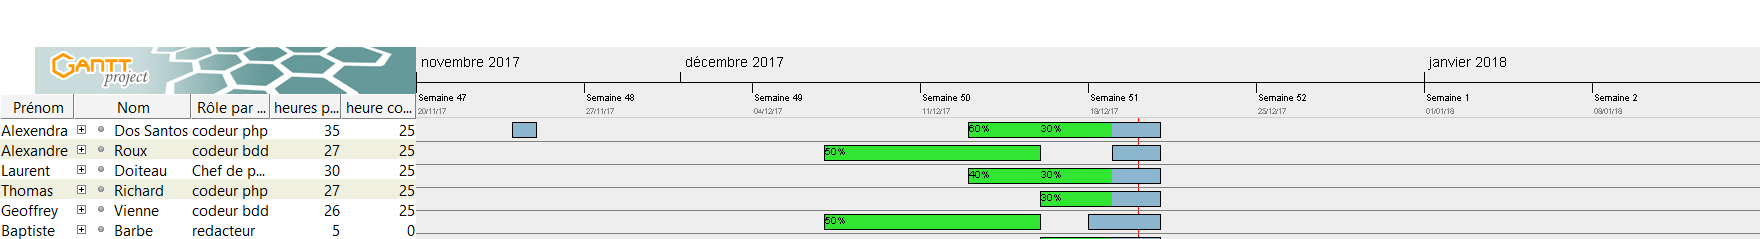
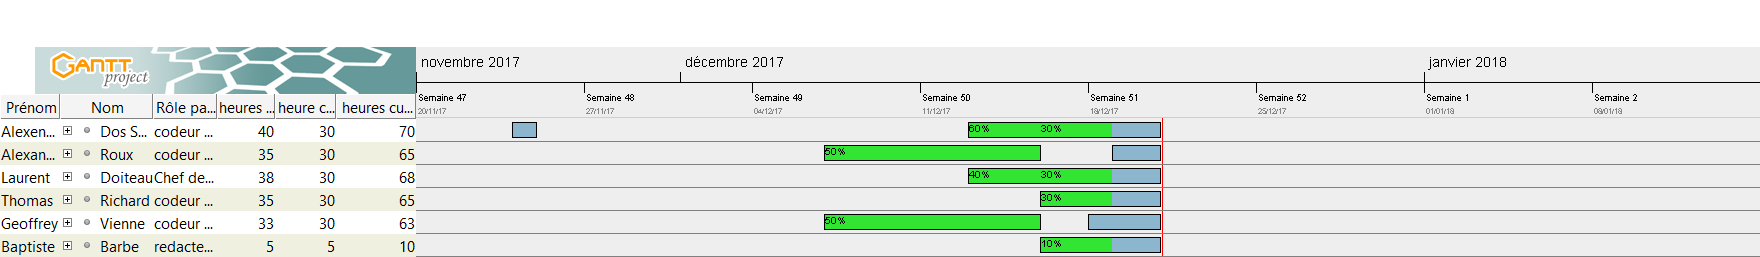
Version finale du diagramme de gantt

Changed region(s): [[0.0, 0.1757, 1.0, 1.0]]

diff --git a/doc/unilink-resources.html b/doc/unilink-resources.html
@@ -98,14 +98,13 @@ div.page_links {
 <table width="100%" border="0" cellspacing="0" cellpadding="0">
 <tr>
 <td bgcolor="#dddddd">
-<div class="project_name">Unilink</div>
+<div class="project_name">Unilink (prototype 1)</div>
 </td>
 </tr>
 <tr>
 <td>
 <div class="page_links">
 <a href="unilink.html"></a>  |
-		  <a href="unilink.html">Accueil</a> |
           <a href="unilink-chart.html">Diagramme de Gantt</a> |
           <a href="unilink-tasks.html">T&acirc;ches</a> |
           <a href="unilink-resources.html">Ressources</a> |
@@ -153,25 +152,27 @@ h5.header {
 <h5 class="header">heures prototype</h5>
 </td><td valign="top" class="header">
 <h5 class="header">heure conception</h5>
+</td><td valign="top" class="header">
+<h5 class="header">heures cumuler</h5>
 </td>
 </tr>
 <tr>
-<td valign="top" class="cell">Alexendra</td><td valign="top" class="cell">Dos Santos</td><td valign="top" class="cell">codeur php</td><td valign="top" class="cell">35.0</td><td valign="top" class="cell">25.0</td>
+<td valign="top" class="cell">Alexendra</td><td valign="top" class="cell">Dos Santos</td><td valign="top" class="cell">codeur php</td><td valign="top" class="cell">40.0</td><td valign="top" class="cell">30.0</td><td valign="top" class="cell">70</td>
 </tr>
 <tr>
-<td valign="top" class="cell">Alexandre </td><td valign="top" class="cell">Roux</td><td valign="top" class="cell">codeur bdd</td><td valign="top" class="cell">27.0</td><td valign="top" class="cell">25.0</td>
+<td valign="top" class="cell">Alexandre </td><td valign="top" class="cell">Roux</td><td valign="top" class="cell">codeur bdd</td><td valign="top" class="cell">35.0</td><td valign="top" class="cell">30.0</td><td valign="top" class="cell">65</td>
 </tr>
 <tr>
-<td valign="top" class="cell">Laurent</td><td valign="top" class="cell">Doiteau</td><td valign="top" class="cell">Chef de projet</td><td valign="top" class="cell">30.0</td><td valign="top" class="cell">25.0</td>
+<td valign="top" class="cell">Laurent</td><td valign="top" class="cell">Doiteau</td><td valign="top" class="cell">Chef de projet</td><td valign="top" class="cell">38.0</td><td valign="top" class="cell">30.0</td><td valign="top" class="cell">68.0</td>
 </tr>
 <tr>
-<td valign="top" class="cell">Thomas</td><td valign="top" class="cell">Richard</td><td valign="top" class="cell">codeur php</td><td valign="top" class="cell">27.0</td><td valign="top" class="cell">25.0</td>
+<td valign="top" class="cell">Thomas</td><td valign="top" class="cell">Richard</td><td valign="top" class="cell">codeur php</td><td valign="top" class="cell">35.0</td><td valign="top" class="cell">30.0</td><td valign="top" class="cell">65.0</td>
 </tr>
 <tr>
-<td valign="top" class="cell">Geoffrey</td><td valign="top" class="cell">Vienne</td><td valign="top" class="cell">codeur bdd</td><td valign="top" class="cell">26.0</td><td valign="top" class="cell">25.0</td>
+<td valign="top" class="cell">Geoffrey</td><td valign="top" class="cell">Vienne</td><td valign="top" class="cell">codeur bdd</td><td valign="top" class="cell">33.0</td><td valign="top" class="cell">30.0</td><td valign="top" class="cell">63.0</td>
 </tr>
 <tr>
-<td valign="top" class="cell">Baptiste</td><td valign="top" class="cell">Barbe</td><td valign="top" class="cell">redacteur</td><td valign="top" class="cell">5.0</td><td valign="top" class="cell">0.0</td>
+<td valign="top" class="cell">Baptiste</td><td valign="top" class="cell">Barbe</td><td valign="top" class="cell">redacteur</td><td valign="top" class="cell">5.0</td><td valign="top" class="cell">5.0</td><td valign="top" class="cell">10.0</td>
 </tr>
 </table>
 <br>
@@ -183,7 +184,7 @@ h5.header {
 <tr>
 <td bgcolor="#6d9ec6" width="50%"><font color="#FFFFFF"><b>Ganttproject (2.8.5 Pilsen (build 2179))</b></font></td><td bgcolor="#6d9ec6" width="50%" align="right"><b><a href="http://ganttproject.biz">ganttproject.biz</a></b>
 <br>
-<b>20/12/17 - 23:39:18</b></td>
+<b>21/12/17 - 10:18:04</b></td>
 </tr>
 </table>
 </body>

diff --git a/doc/unilink.html b/doc/unilink.html
@@ -98,17 +98,17 @@ div.page_links {
 <table width="100%" border="0" cellspacing="0" cellpadding="0">
 <tr>
 <td bgcolor="#dddddd">
-<div class="project_name">Unilink</div>
+<div class="project_name">Unilink (prototype 1)</div>
 </td>
 </tr>
 <tr>
 <td>
 <div class="page_links">
 <a href="unilink.html"></a>  |
-		  <a href="unilink.html">Accueil</a> |
           <a href="unilink-chart.html">Diagramme de Gantt</a> |
           <a href="unilink-tasks.html">T&acirc;ches</a> |
-          <a href="unilink-resources.html">Ressources</a>
+          <a href="unilink-resources.html">Ressources</a> |
+		  <a href="unilink-pert.html">PERT</a> |
 </div>
 </td>
 </tr>
@@ -120,7 +120,7 @@ div.page_links {
 <td valign="top" bgcolor="#dddddd">
 <h5>Projet</h5>
 </td><td valign="top">
-<h6>Unilink</h6>
+<h6>Unilink (prototype 1)</h6>
 </td>
 </tr>
 <tr>
@@ -153,7 +153,7 @@ div.page_links {
 <tr>
 <td bgcolor="#6d9ec6" width="50%"><font color="#FFFFFF"><b>Ganttproject (2.8.5 Pilsen (build 2179))</b></font></td><td bgcolor="#6d9ec6" width="50%" align="right"><b><a href="http://ganttproject.biz">ganttproject.biz</a></b>
 <br>
-<b>20/12/17 - 23:39:18</b></td>
+<b>21/12/17 - 10:18:03</b></td>
 </tr>
 </table>
 </body>

diff --git a/doc/unilink-chart.html b/doc/unilink-chart.html
@@ -98,14 +98,13 @@ div.page_links {
 <table width="100%" border="0" cellspacing="0" cellpadding="0">
 <tr>
 <td bgcolor="#dddddd">
-<div class="project_name">Unilink</div>
+<div class="project_name">Unilink (prototype 1)</div>
 </td>
 </tr>
 <tr>
 <td>
 <div class="page_links">
 <a href="unilink.html"></a>  |
-		  <a href="unilink.html">Accueil</a> |
           <a href="unilink-chart.html">Diagramme de Gantt</a> |
           <a href="unilink-tasks.html">T&acirc;ches</a> |
           <a href="unilink-resources.html">Ressources</a> |
@@ -124,7 +123,7 @@ div.page_links {
 <tr>
 <td bgcolor="#6d9ec6" width="50%"><font color="#FFFFFF"><b>Ganttproject (2.8.5 Pilsen (build 2179))</b></font></td><td bgcolor="#6d9ec6" width="50%" align="right"><b><a href="http://ganttproject.biz">ganttproject.biz</a></b>
 <br>
-<b>20/12/17 - 23:39:18</b></td>
+<b>21/12/17 - 10:18:03</b></td>
 </tr>
 </table>
 </body>

diff --git a/doc/unilink-tasks.html b/doc/unilink-tasks.html
@@ -98,14 +98,13 @@ div.page_links {
 <table width="100%" border="0" cellspacing="0" cellpadding="0">
 <tr>
 <td bgcolor="#dddddd">
-<div class="project_name">Unilink</div>
+<div class="project_name">Unilink (prototype 1)</div>
 </td>
 </tr>
 <tr>
 <td>
 <div class="page_links">
 <a href="unilink.html"></a>  |
-		  <a href="unilink.html">Accueil</a> |
           <a href="unilink-chart.html">Diagramme de Gantt</a> |
           <a href="unilink-tasks.html">T&acirc;ches</a> |
           <a href="unilink-resources.html">Ressources</a> |
@@ -301,7 +300,7 @@ h5.header {
 <tr>
 <td bgcolor="#6d9ec6" width="50%"><font color="#FFFFFF"><b>Ganttproject (2.8.5 Pilsen (build 2179))</b></font></td><td bgcolor="#6d9ec6" width="50%" align="right"><b><a href="http://ganttproject.biz">ganttproject.biz</a></b>
 <br>
-<b>20/12/17 - 23:39:18</b></td>
+<b>21/12/17 - 10:18:03</b></td>
 </tr>
 </table>
 </body>
